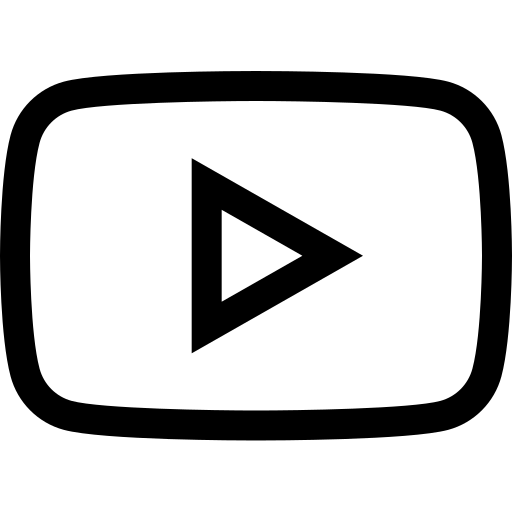
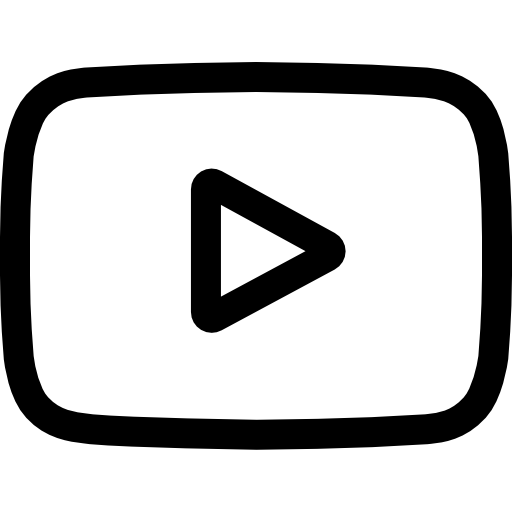
e

diff --git a/index.html b/index.html
@@ -35,7 +35,7 @@
                 <h3 class="estudante-nome">all of us are dead</h3>
                 <a href=""><img class="estudante-icone" src="github.png" alt="icone github"></a>
                 <a href="https://www.adorocinema.com/series/serie-26455/"><img class="estudante-icone" src="github.png" alt="icone adorocinema"></a>
-                <a href="<iframe width="560" height="315" src="https://www.youtube.com/embed/bmbl65oiUgA?si=4PU-8XWlQLx4d00f" title="YouTube video player" frameborder="0" allow="accelerometer; autoplay; clipboard-write; encrypted-media; gyroscope; picture-in-picture; web-share" referrerpolicy="strict-origin-when-cross-origin" allowfullscreen></iframe>"><img class="estudante-icone" src="linkedin.png" alt="icone youtube"></a>
+                <a href="<iframe width="560" height="315" src="https://www.youtube.com/embed/bmbl65oiUgA?si=4PU-8XWlQLx4d00f" title="YouTube video player" frameborder="0" allow="accelerometer; autoplay; clipboard-write; encrypted-media; gyroscope; picture-in-picture; web-share" referrerpolicy="strict-origin-when-cross-origin" allowfullscreen></iframe>"><img class="estudante-icone" src="youtube.png" alt="icone youtube"></a>
               
             </div>
        
